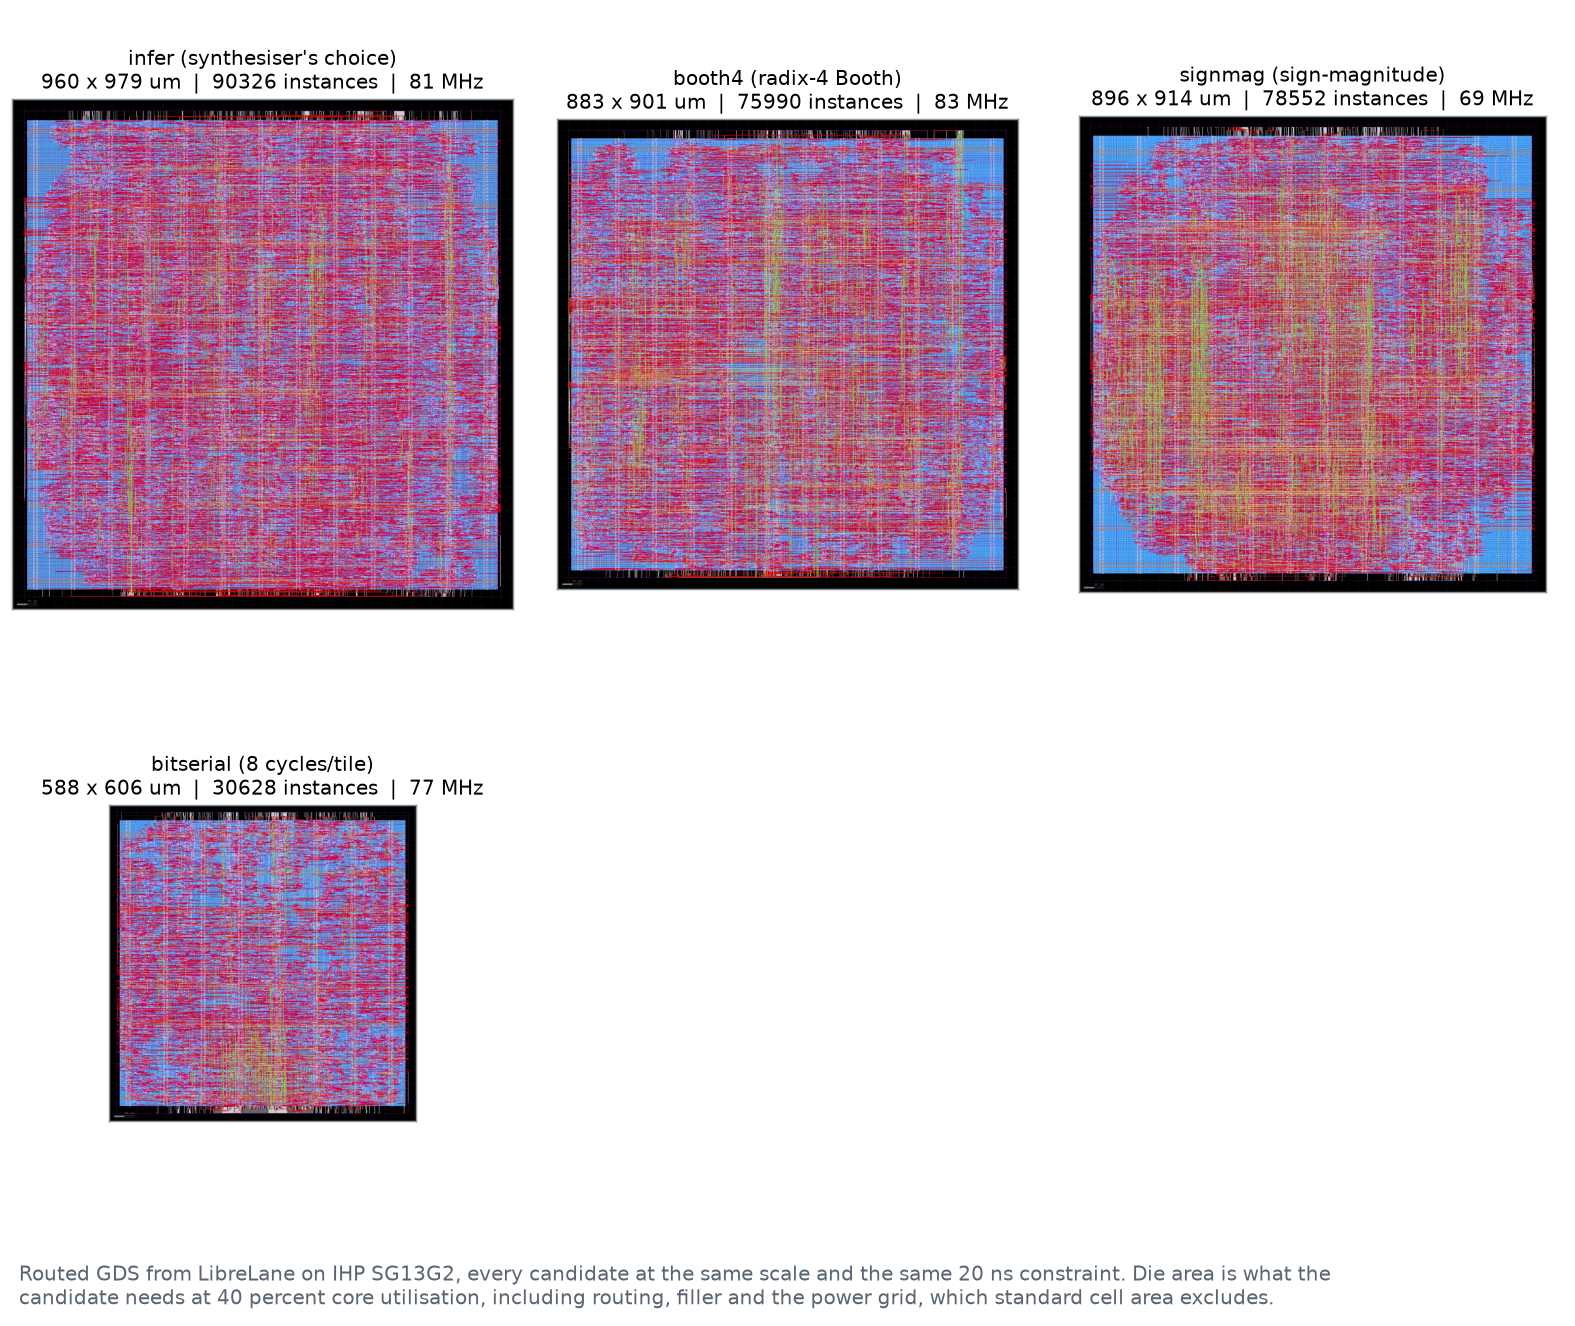
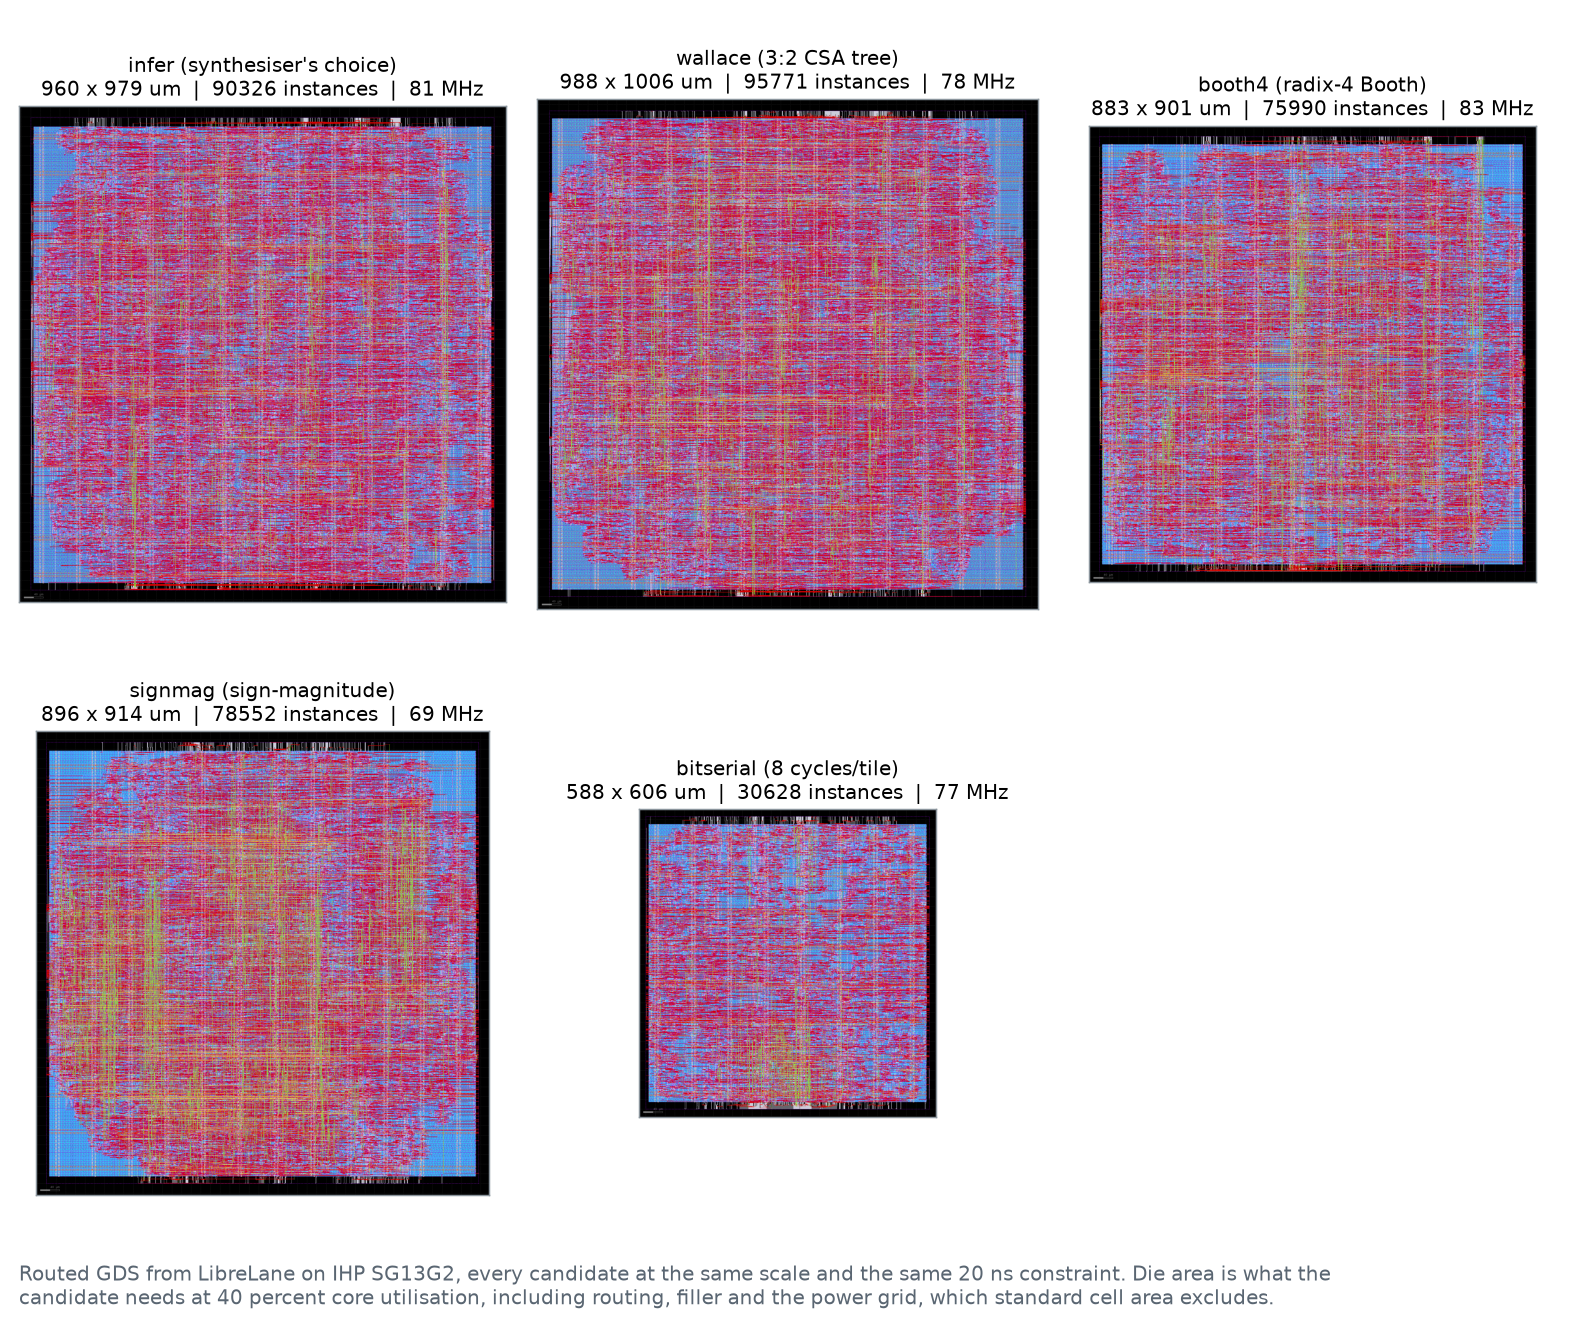
feat: the contact sheets with all five candidates, and an honest zoom caption
engine_wallace finished place and route, so both sheets now hold every candidate at one
scale: 960x979, 988x1006, 883x901, 896x914 and 588x606 micrometres of routed silicon,
drawn from the GDS with the PDK's own layer properties.

The zoom sheet caption said the microarchitecture is what differs in a 60 micrometre
window. It is not, and the picture never showed that. At that magnification all five are
the same standard cell library, the same cell rows and the same router, and they look
alike. The caption now says exactly that and points at the die sheet, where the
difference between a Booth engine and a Wallace tree is a third of a square millimetre.

Rendering a 70 MB GDS three times per candidate takes ten minutes, so the renders are
cached against the GDS timestamp and --force overrides it. Recomposing the sheets after
a caption change is now seconds.

diff --git a/tools/render_gds.py b/tools/render_gds.py
@@ -128,20 +128,36 @@ def metrics() -> dict:
     return json.loads(path.read_text()).get("candidates", {})
 
 
-def render_single(top: str, px_per_um: float) -> dict:
-    """One candidate: whole die, and a zoom crop from the middle of the core."""
+def render_single(top: str, px_per_um: float, reuse: bool = True) -> dict:
+    """One candidate: whole die, and a zoom crop from the middle of the core.
+
+    Rendering a 70 MB GDS three times takes a couple of minutes, so the results are
+    cached against the GDS's own timestamp. Recomposing the sheets after a caption
+    change then costs seconds rather than ten minutes.
+    """
     gds = gds_for(top)
+    die = BUILD / f"{top}_die.png"
+    zoom = BUILD / f"{top}_zoom.png"
+    cache = BUILD / f"{top}_span.json"
+
+    fresh = (reuse and cache.exists() and die.exists() and zoom.exists()
+             and cache.stat().st_mtime >= gds.stat().st_mtime)
+    if fresh:
+        span_x, span_y = json.loads(cache.read_text())
+        print(f"  {top}: {span_x:.0f} x {span_y:.0f} um die (cached render)")
+        return {"top": top, "die": die, "zoom": zoom,
+                "span_x": span_x, "span_y": span_y}
+
     x0, y0, x1, y1 = klayout(gds, IMG / f"layout_{top}.png", 2000, 2000)
     span_x, span_y = x1 - x0, y1 - y0
 
-    die = BUILD / f"{top}_die.png"
     klayout(gds, die, max(int(span_x * px_per_um), 8), max(int(span_y * px_per_um), 8))
 
     cx, cy = (x0 + x1) / 2.0, (y0 + y1) / 2.0
     half = ZOOM_UM / 2.0
-    zoom = BUILD / f"{top}_zoom.png"
     klayout(gds, zoom, 1100, 1100,
             box=(cx - half, cy - half, cx + half, cy + half))
+    cache.write_text(json.dumps([span_x, span_y]))
     print(f"  {top}: {span_x:.0f} x {span_y:.0f} um die")
     return {"top": top, "die": die, "zoom": zoom,
             "span_x": span_x, "span_y": span_y}
@@ -210,8 +226,11 @@ def contact_sheet(cards: list[dict], out: pathlib.Path, kind: str,
     else:
         caption = (
             f"The same {ZOOM_UM:.0f} micrometre square of silicon in each candidate, at "
-            f"the same magnification, taken from the middle of the core.\nSame function, "
-            f"same flow, same constraint: what differs is the microarchitecture."
+            f"the same magnification, from the middle of the core. At this zoom they "
+            f"look alike, and that is\nthe finding: the same library, the same cell "
+            f"rows, the same router. The microarchitecture shows up in how much of this "
+            f"a candidate needs,\nwhich is the die sheet above, not in what a square of "
+            f"it looks like."
         )
     fig.text(0.012, 0.10 / fig_h, caption, fontsize=9.5, color="#5a6672", va="bottom")
     fig.savefig(out, dpi=150, facecolor="white")
@@ -223,6 +242,8 @@ def main(argv: list[str] | None = None) -> int:
     parser = argparse.ArgumentParser(description=__doc__.split("\n")[0])
     parser.add_argument("--tops", nargs="+", default=ORDER)
     parser.add_argument("--px-per-um", type=float, default=2.2)
+    parser.add_argument("--force", action="store_true",
+                        help="re-render even when the cached images are current")
     args = parser.parse_args(argv)
 
     if shutil.which("klayout") is None:
@@ -243,7 +264,7 @@ def main(argv: list[str] | None = None) -> int:
         print(f"render_gds: no GDS for {', '.join(missing)}, skipping those")
 
     info = metrics()
-    cards = [render_single(top, args.px_per_um) for top in tops]
+    cards = [render_single(top, args.px_per_um, reuse=not args.force) for top in tops]
     contact_sheet(cards, IMG / "layout_contact_sheet.png", "die", info)
     contact_sheet(cards, IMG / "layout_zoom_contact_sheet.png", "zoom", info)
     return 0
